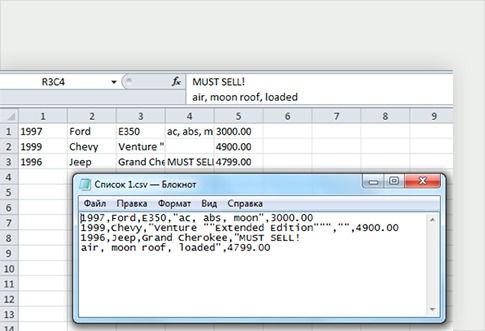
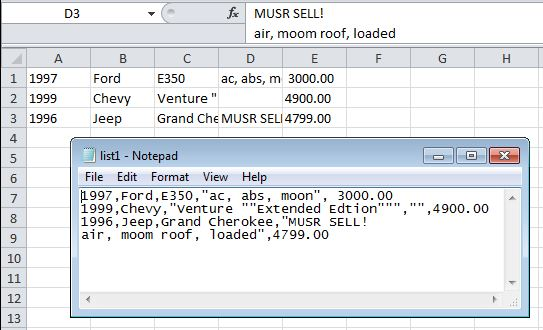
Added english images in the readme.

diff --git a/README.md b/README.md
@@ -3,14 +3,14 @@ The program CSV 4180 is an extension for Microsoft Excel and is designed to work
 
 # Opening a csv file in Excel
 All data is loaded into Excel cells as string values according to RFC 4180.  
-![](images/open-window.png)
+![](images/open-window.jpg)
 
 Thus, the csv file is converted to the correct table.  
 ![](images/feature-1.jpg)
 
 # Saving Excel data to CSV
 The CSV 4180 extension stores a Microsoft Excel spreadsheet in a csv file, according to the RFC 4180 standard.  
-![](images/save-window.png)
+![](images/save-window.jpg)
 
 The data is stored as it is displayed in the cells themselves and is separated by commas.
 
